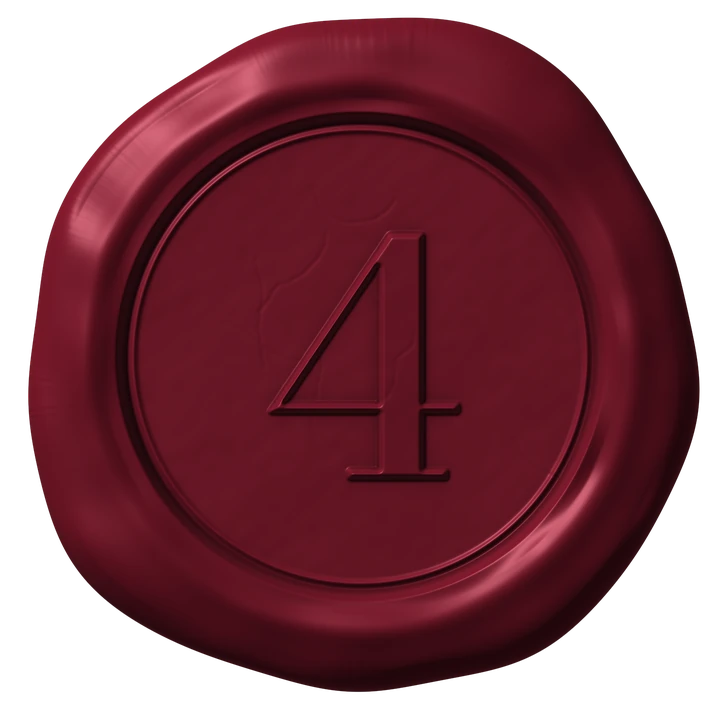
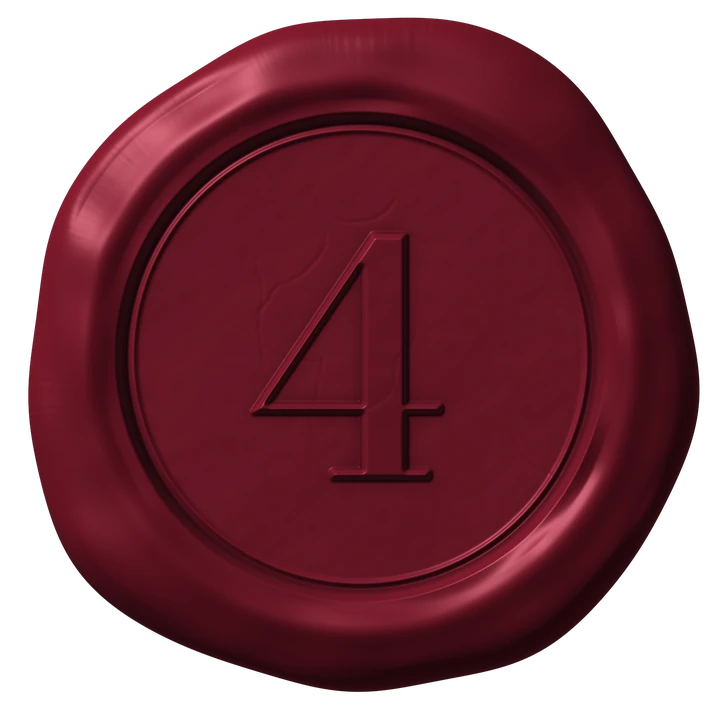
seal: optically centre the 4

Changed region(s): [[0.3361, 0.3086, 0.6417, 0.6788], [0.4583, 0.648, 0.4889, 0.6788]]

diff --git a/app.js b/app.js
@@ -748,7 +748,7 @@ $("#lcTitle").textContent = F.lockedTitle; $("#envTo").textContent = C.him; $("#
 const CRACK_L = "polygon(0 0, 52% 0, 47% 18%, 54% 34%, 46% 52%, 55% 68%, 48% 84%, 53% 100%, 0 100%)";
 const CRACK_R = "polygon(52% 0, 100% 0, 100% 100%, 53% 100%, 48% 84%, 55% 68%, 46% 52%, 54% 34%, 47% 18%)";
 // baked seals: the numeral is pressed into the wax in the image itself; any other text falls back to img + span
-const SEAL_BAKED = { "4": "assets/seal-4.webp?v=1", "6.22": "assets/seal-622.webp?v=1" };
+const SEAL_BAKED = { "4": "assets/seal-4.webp?v=2", "6.22": "assets/seal-622.webp?v=2" };
 function sealHTML(text) { const baked = SEAL_BAKED[String(text)];
   const face = baked ? `<img src="${baked}" width="720" height="713" alt="" decoding="async">` : `<img src="assets/seal.webp" width="200" height="198" alt=""><span class="seal-t">${esc(text)}</span>`;
   return `<span class="half h1" style="clip-path:${CRACK_L};-webkit-clip-path:${CRACK_L}">${face}</span><span class="half h2" style="clip-path:${CRACK_R};-webkit-clip-path:${CRACK_R}">${face}</span>`; }
